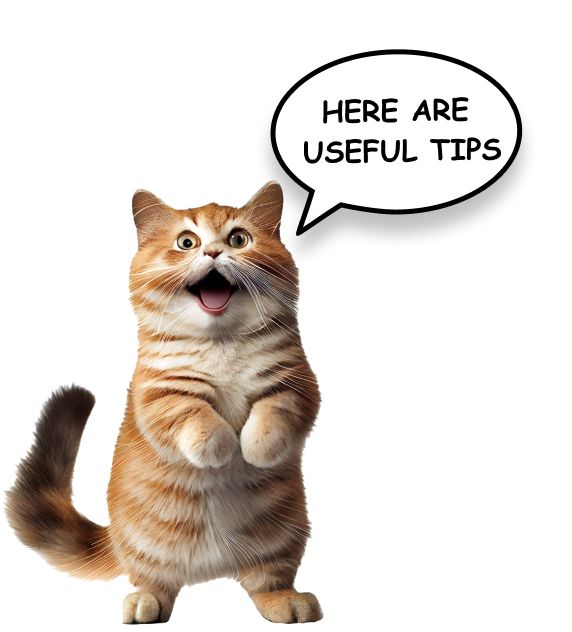
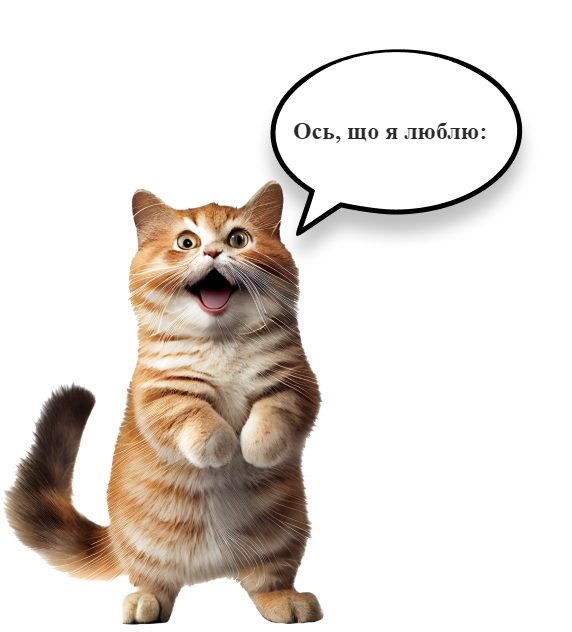
Українізація проведена успішно.

diff --git a/src/Pages/Blog/index.js b/src/Pages/Blog/index.js
@@ -32,70 +32,66 @@ const BlogPage = () => {
         >
           <SwiperSlide>
             <div id="adoption-stories" className="swiper-image-block">
-              <h1>Adoption Stories</h1>
+              <h1>Про блог</h1>
               <p>
-                In this page, we provide a dedicated space for our blog on our
-                pet adopting website. Our blog serves as a valuable resource for
-                pet lovers, potential adopters, and current pet owners.
+                  Ця сторінка - спеціальне місце для нашого блогу про адопцію тварин. Наш блог є цікавим ресурсом для
+                  любителів домашніх тварин, потенційних усиновлювачів та тих, хто ще вагається.
               </p>
             </div>
           </SwiperSlide>
           <SwiperSlide>
             <div id="tips-guides" className="swiper-image-block">
-              <h1>Tips and Guides</h1>
+              <h1>Підказки та інструкції</h1>
               <p>
-                We offer practical tips, guides, and step-by-step tutorials on
-                various aspects of pet care. Whether it's introducing a new pet
-                to your home, crate training, basic obedience, or dealing with
-                common behavioral issues, our blog provides actionable advice to
-                help pet owners navigate these situations successfully.
+                 Ми пропонуємо практичні поради, посібники та покрокові інструкції щодо
+                 різних аспектів догляду за домашніми тваринами. Будь то знайомство з новою 
+                 домашньою твариною, специфічне тренування, базова слухняність чи роботи з
+                 поширеними проблемами поведінки - наш блог дає дієві поради власникам 
+                 домашніх тварин в кожній з цих ситуацій.
               </p>
             </div>
           </SwiperSlide>
           <SwiperSlide>
             <div id="expert-advice" className="swiper-image-block">
-              <h1>Expert Advice</h1>
+              <h1>Поради експертів</h1>
               <p>
-                Our blog page features articles written by experienced pet
-                professionals, veterinarians, trainers, and behaviorists. They
-                provide expert advice on various topics, including pet behavior,
-                training tips, nutrition, grooming, and overall pet well-being.
-                We strive to provide reliable and up-to-date information to
-                assist pet owners in providing the best care for their furry
-                companions.
+                 На сторінці нашого блогу представлені статті, написані досвідченими кінологами,
+                 професіоналами, ветеринарами та тренерами. Вони дають експертні поради з різних тем, 
+                 у тому числі щодо поведінки домашніх тварин, поради щодо дресирування, харчування, 
+                 догляду та загального самопочуття домашніх тварин. Ми прагнемо надавати достовірну та 
+                 актуальну інформацію, щоб допомогти власникам домашніх тварин забезпечити найкращий 
+                 догляд за їхніми пухнастиками компаньйонами.
               </p>
             </div>
           </SwiperSlide>
         </Swiper>
       </div>
       <div className="stories">
-        <h2>Adoption Stories</h2>
+        <h2>Історії адопції</h2>
         <div className="story-block">
-          <h2>Lily and Charlie</h2>
+          <h2>Лілія та Чарлі</h2>
           <img alt="story-1" src="./images/blog/story-1.png" />
           <p>
-            Once upon a time, in a bustling city filled with towering
-            skyscrapers and busy streets, there was a humble animal shelter
-            called "Paws of Hope." It was a place where wagging tails and
-            hopeful eyes eagerly awaited their chance at a forever home. One
-            fateful day, a young woman named Lily found herself drawn to the
-            shelter's doors, her heart yearning for a furry companion to share
-            her life's adventures. As she entered, she was greeted by a symphony
-            of barks and meows, each one a plea for love and a place to belong.
-            Amidst the chaos, a small, scruffy dog caught Lily's attention. His
-            name was Charlie, a shy and timid soul who had endured hardships in
-            his past. Lily could see the flicker of hope in his eyes, and she
-            knew she had found her perfect match. Overcoming her initial
-            reservations, Lily made the decision to adopt Charlie and give him
-            the love and stability he had been longing for. With every wag of
-            his tail and gentle nudge against her hand, Charlie silently thanked
-            Lily for seeing past his rough exterior and recognizing the beauty
-            within.
+             Давним-давно, в галасливому місті, наповненому високими хмарочосами і 
+             жвавими вулицями, був скромний притулок для тварин під назвою «Лапки надії». 
+             Це було місце, де виляли хвостами і очі, повні надії, з нетерпінням чекали 
+             свого шансу отримати вічний дім. Одного доленосного дня, молода жінка на 
+             ім’я Лілі прийшла до дверей притулку. Її серце прагнуло завестися пухнастим 
+             другом, що розділить із нею її життєві пригоди. Коли вона увійшла, її зустріла 
+             симфонія гавкання та нявкання, кожне з яких благало про любов та новий дім.
+             Серед хаосу увагу Лілі привернув маленький знесилений песик. Його звали Чарлі, с
+             ором'язлива й боязка душа, яка пережила труднощі в минулому. Лілі побачила спалах 
+             надії в його очах, і вона знала, що знайшла ідеальну пару. Подолавши усі свої 
+             сумніви та переживання, Лілі прийняла рішення усиновити Чарлі та подарувати йому
+             свою любов і стабільність, яких він так прагнув. З кожним помахом свого хвоста, 
+             і ніжним штовхом її руки, Чарлі мовчки дякував за те, що вона розгледіла його 
+             ніжну душу за серйозним та боязким тілом. З того часу вони багато мандрували
+             і ніколи не розділялись, адже стали невід'ємною частиною життя одне одного.
           </p>
         </div>
       </div>
       <div className="tips-guides">
-        <h1>Tips and Guides</h1>
+        <h1>Підказки та інструкції</h1>
         <div className="tips">
           <img src="./images/blog/useful-cat.png" />
           <Swiper
@@ -106,37 +102,37 @@ const BlogPage = () => {
           >
             <SwiperSlide >
               <h1>
-                Provide a balanced diet: Feed your pet high-quality pet food appropriate for their species, age, and health condition. Consult with a veterinarian to determine the right diet for your pet.
+              <p>Збалансоване харчування:</p> Годуйте свого улюбленця високоякісним кормом, що відповідає його виду, віку та стану здоров’я. Проконсультуйтеся з ветеринаром, щоб визначити правильний раціон для вашого вихованця.
               </h1>
               <img src="images/blog/tip-1.png" />
             </SwiperSlide>
             <SwiperSlide >
               <h1>
-                Regular exercise: Dogs, cats, and other pets need regular exercise to maintain their physical and mental well-being. Engage them in playtime, walks, or other activities that suit their energy levels and abilities.
+              <p>Регулярні фізичні вправи:</p> Собаки, коти та інші домашні тварини потребують регулярних фізичних вправ, щоб підтримувати своє фізичне та психічне благополуччя. Залучайте їх до ігор, прогулянок або інших видів діяльності, які відповідають їхньому рівню енергії та здібностям.
               </h1>
               <img src="images/blog/exercise.png" />
             </SwiperSlide>
             <SwiperSlide >
               <h1>
-                Grooming: Regular grooming is essential to keep your pet's coat, nails, and teeth in good condition. Brush their fur, trim their nails, and clean their teeth as recommended by your veterinarian.
+              <p>Догляд:</p> Регулярний догляд необхідний для підтримки шерсті, нігтів і зубів вашого вихованця в хорошому стані. Розчісуйте їм шерсть, стрижіть їм кігті та чистіть зуби відповідно до рекомендацій ветеринара.
               </h1>
               <img src="images/blog/grooming.png" />
             </SwiperSlide>
             <SwiperSlide >
               <h1>
-                Regular veterinary check-ups: Schedule routine visits to the veterinarian for health check-ups and vaccinations. Regular examinations can help detect any potential health issues early and ensure your pet's well-being.
+              <p>Регулярні ветеринарні огляди:</p> Заплануйте регулярні візити до ветеринара для огляду здоров’я та вакцинації. Регулярні огляди можуть допомогти вчасно виявити будь-які потенційні проблеми зі здоров’ям і забезпечити благополуччя вашого вихованця.
               </h1>
               <img src="images/blog/veterinary.png" />
             </SwiperSlide>
             <SwiperSlide >
               <h1>
-                Socialization: Socialize your pet with other animals and people from an early age to help them develop positive behaviors and reduce anxiety or aggression.
+              <p>Соціалізація:</p> Спілкуйтеся з тваринами та людьми з раннього дитинства, щоб допомогти їм розвинути позитивну поведінку та зменшити тривогу чи агресію.
               </h1>
               <img src="images/blog/socialization.png" />
             </SwiperSlide>
             <SwiperSlide >
               <h1>
-                Safe environment: Create a safe environment for your pet by removing any hazardous substances or objects they could ingest. Keep electrical cords, toxic plants, chemicals, and small objects out of their reach.
+              <p>Безпечне середовище:</p> Створіть безпечне середовище для свого вихованця, прибравши будь-які небезпечні предмети, які вони можуть проковтнути. Тримайте шнури, рослини, хімікати та дрібні предмети в недоступному для них місці, слідкуйте за ними під час прогулянок.
               </h1>
               <img src="images/blog/save-environment.png" />
             </SwiperSlide>

diff --git a/src/Pages/About/index.js b/src/Pages/About/index.js
@@ -6,31 +6,34 @@ const About = () => {
                 <div className="about-header-container">
                     <div className='about-header'>
                         <img alt='paw' src="./images/Home/paw.png" />
-                        <h1>About Us</h1>
+                        <h1>Про нас</h1>
                     </div>
-                    <p>Our big-picture hope is for every pet in the world to be safe, respected and loved - whether the pet is owned, surrendered to a shelter, unclaimed at the pound, seized by authorities, or trapped by rangers.</p>
+                    </div>
+                <div className='about-text'>
+                    <p >Ми - благодійна організація PetCare, яка прагне згуртувати усіх навколо спільної проблеми. <br/> Усі тут сподіваються, що кожна домашня тваринка у світі буде в безпеці, огорнута повагою, теплом та любов’ю, незалежно від того, чи вона у власника, здана в притулок, загублена чи безхатня.</p>
                 </div>
+
 
                 <div className='about-blocks-container'>
                     <div className='block-container'>
                         <img alt='about-us-img' src="./images/about-us/about-us-image-1.png" />
                         <div className='block-text'>
-                            <h2>Create a positive and progressive culture for rescue.</h2>
-                            <p>We want to improve the rescue and adoption experience for everyone and believe that the best way to achieve this is by creating and nurturing a positive and progressive culture for rescue.</p>
+                            <h2>Створюємо позитивну і прогресивну культуру для турботи про тварин</h2>
+                            <p>Ми хочемо покращити досвід порятунку та адопції для всіх і вважаємо, що найкращий спосіб досягти цього — створити та плекати позитивну та прогресивну культуру порятунку.</p>
                         </div>
                     </div>
                     <div className='block-container' id='reverse'>
                         <img alt='about-us-img' src="./images/about-us/about-us-image-2.png" />
                         <div className='block-text'>
-                            <h2>Use technology to drive social change.</h2>
-                            <p>We are digital innovators, always looking for ways we can leverage the latest advances in the tech world to solve the big issues and challenges that rescue pets face in the world.</p>
+                            <h2>Використовуваємо технології, щоб просувати зміни</h2>
+                            <p>Ми цифрові новатори, які завжди шукають способи використання останніх досягнень у світі технологій для вирішення великих проблем і викликів, з якими стикається світ порятунку тварин.</p>
                         </div>
                     </div>
                     <div className='block-container'>
                         <img alt='about-us-img' src="./images/about-us/about-us-image-3.png" />
                         <div className='block-text'>
-                            <h2>Unite to save lives.</h2>
-                            <p>We unite pets with new families, rescue groups with adopters and foster carers, corporate partners with a national rescue community, and we unite all passionate advocates for rescue pets to drive positive change.</p>
+                            <h2>Об'єднуємо, щоб рятувати життя</h2>
+                            <p>Ми об’єднуємо домашніх тварин із новими сім’ями, групи волонтерів з новими потенційними власниками та тимчасовими опікунами, корпоративних партнерів із національною спільнотою порятунку та всіх прихильників порятунку домашніх тварин, щоб стимулювати позитивні зміни.</p>
                         </div>
                     </div>
 

diff --git a/src/Pages/SignUp/index.js b/src/Pages/SignUp/index.js
@@ -26,13 +26,13 @@ function SignUp({ updateIsConnected }) {
       .then(response => {
         console.log(response.data);
         updateIsConnected(true);
-        setConnectionStatus('You are registered and logged in');
+        setConnectionStatus('Ви зареєстровані та увійшли, гав-гав!');
         navigate('/');
       })
       .catch(error => {
         console.error(error);
         updateIsConnected(false);
-        setConnectionStatus('Error occurred during registration');
+        setConnectionStatus('Виникла помилка під час реєстрації, спробуйте знову(');
       });
     setUsername('');
     setEmail('');
@@ -42,21 +42,21 @@ function SignUp({ updateIsConnected }) {
 
   return (
     <form className='signup-container' onSubmit={handleRegistration}>
-      <h2 className='signup-text'>Sign up</h2>
+      <h2 className='signup-text'>Реєстрація</h2>
 
       <div className='signup-content'>
-        <label>Username:</label>
-        <input placeholder="Type your username" type="text" value={username} onChange={e => setUsername(e.target.value)} />
-        <label>Email:</label>
-        <input placeholder="Type your email" type="email" value={email} onChange={e => setEmail(e.target.value)} />
-        <label>Password:</label>
-        <input placeholder="Type your password" type="password" value={password} onChange={e => setPassword(e.target.value)} />
-        <label>Confirm Password:</label>
-        <input placeholder="Confirm your password" type="password" value={confirmPassword} onChange={e => setConfirmPassword(e.target.value)} />
+        <label>Ім'я користувача:</label>
+        <input placeholder="Введіть ім'я користувача" type="text" value={username} onChange={e => setUsername(e.target.value)} />
+        <label>Електронна адреса:</label>
+        <input placeholder="Введіть електронну адресу" type="email" value={email} onChange={e => setEmail(e.target.value)} />
+        <label>Пароль:</label>
+        <input placeholder="Введіть пароль" type="password" value={password} onChange={e => setPassword(e.target.value)} />
+        <label>Підтвердіть пароль:</label>
+        <input placeholder="Підтвердіть пароль" type="password" value={confirmPassword} onChange={e => setConfirmPassword(e.target.value)} />
       </div>
       <div className='status_signup'>{connectionStatus}</div>
-      <button type="submit">Register</button>
-      <p className='redirect-auth'>Already signed up? <a href='/authorization'>Log in here!</a></p>
+      <button type="submit">Зареєструватись</button>
+      <p className='redirect-auth'>Вже зареєстровані? <a href='/authorization'>Увійдіть тут!</a></p>
     </form>
   );
 }

diff --git a/src/Pages/Authorization/index.js b/src/Pages/Authorization/index.js
@@ -19,13 +19,13 @@ function Authorization({ updateIsConnected }) {
       .then(response => {
         console.log(response.data);
         updateIsConnected(true);
-        setConnectionStatus('You are logged in');
+        setConnectionStatus('Гав-гав!');
         navigate('/');
       })
       .catch(error => {
         console.error(error);
         updateIsConnected(false);
-        setConnectionStatus('Incorrect data');
+        setConnectionStatus('Спробуйте знову(');
       });
     setEmail('');
     setPassword('');
@@ -33,16 +33,16 @@ function Authorization({ updateIsConnected }) {
 
   return (
     <form className='authorization-container' onSubmit={handleAuthorization}>
-      <h2 className='authorization-text'>Log in</h2>
+      <h2 className='authorization-text'>Вхід</h2>
       <div className='authorization-content'>
-        <label>Email:</label>
-        <input placeholder="Enter your email" type="email" value={email} onChange={e => setEmail(e.target.value)} />
-        <label>Password:</label>
-        <input placeholder="Enter your password" type="password" value={password} onChange={e => setPassword(e.target.value)} />
+        <label>Електронна адреса:</label>
+        <input placeholder="Введіть електронну адресу" type="email" value={email} onChange={e => setEmail(e.target.value)} />
+        <label>Пароль:</label>
+        <input placeholder="Введіть пароль" type="password" value={password} onChange={e => setPassword(e.target.value)} />
       </div>
       <div className='status'>{connectionStatus}</div>
-      <button type="submit">Authorize</button>
-      <p className='redirect-signup'>Don't have an account yet? <a href='/signup'>Sign up here!</a></p>
+      <button type="submit">Увійти</button>
+      <p className='redirect-signup'>Ще не маєте профілю? <a href='/signup'>Зареєструйтесь тут!</a></p>
     </form>
   );
 }

diff --git a/src/Pages/Blog/style.scss b/src/Pages/Blog/style.scss
@@ -53,8 +53,8 @@
       align-items: center;
 
       .swiper {
-        width: 340px;
-        height: 420px;
+        width: rem(360px);
+        height: rem(450px);
 
         .swiper-wrapper{
           .swiper-slide {
@@ -65,7 +65,7 @@
             gap: 15px;
             border-radius: 18px;
             padding: rem(20px);
-            font-size: 20px;
+            font-size: 22px;
             color: #473f3f;
             border: 2px solid black;
             background-color: #FDC688;
@@ -73,6 +73,12 @@
             img{
               height: 150px;
               border-radius: 15px;
+            }
+            p{
+              font-weight:bold;
+              font-size: 24px;
+              margin-bottom: rem(10px);
+              margin-top: rem(10px);
             }
           }
   

diff --git a/src/Pages/About/style.scss b/src/Pages/About/style.scss
@@ -18,7 +18,7 @@
         color: #656689;
         font-size: rem(24px);
         text-align: center;
-        margin-bottom: rem(70px);
+        margin-bottom: rem(35px);
 
         .about-header {
             padding-top: rem(75px);
@@ -31,11 +31,23 @@
         }
     }
 
+    
+    .about-text {
+        width: rem(1050px);
+        margin: auto;
+        font-family: $main-font;
+        color: #656689;
+        font-size: rem(24px);
+        text-align: center;
+        margin-bottom: rem(70px);
+    }
+
     .about-blocks-container {
         display: flex;
         flex-direction: column;
         gap: rem(44px);
         margin-bottom: rem(50px);
+        margin-top: rem(50px);
 
         .block-container {
             width: rem(1154px);

diff --git a/src/components/Footer/index.js b/src/components/Footer/index.js
@@ -37,7 +37,7 @@ const Footer = () => {
       <div className="footer">
         <div className="meow">
           <div>
-            <h3 className="slackey">Мяяв-в</h3>
+            <h3 className="slackey">Ня-яв</h3>
             <h2 className="meow-text">
               Наше бачення - світ вільний від насильнства над тваринами. Разом ми можемо змінювати світ для тварин. Глобальний добробут для тварин. Краще життя для тварин.
             </h2>
